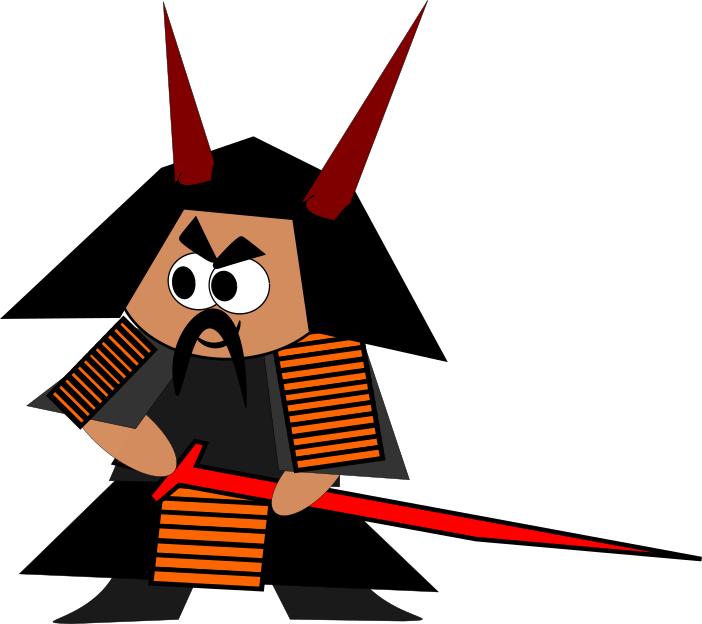
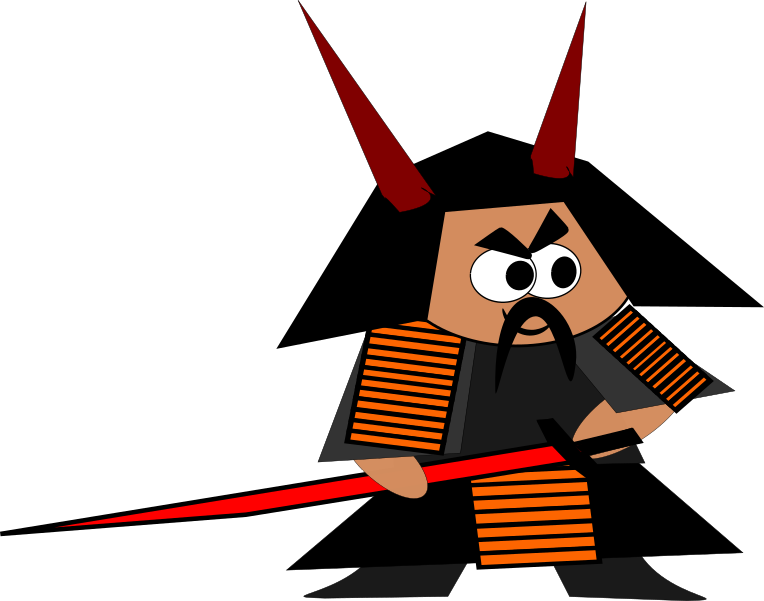
new levels with boss fights

diff --git a/planet_of_the_grizzlies/potg/world/potg_enemy.py b/planet_of_the_grizzlies/potg/world/potg_enemy.py
@@ -18,6 +18,17 @@ class Enemy(Entity):
                 if not self.killed():
                     self.activate_state(Entity.Punched, 12)
 
+    def update_target(self):
+        self.current_target = None
+        # check if any of the players is within range
+        for clientid, player in self.world.players.items():
+            dx = abs(player.logic_pos[0] - self.logic_pos[0])
+            dy = abs(player.logic_pos[1] - self.logic_pos[1])
+            if dx < self.range_x and dy < self.range_y:
+                self.current_target = player
+                break
+
+
     def entity_type(self):
         return "E"
 
@@ -50,8 +61,6 @@ class Soldier(Enemy):
         self.sprites[Entity.Idle] = [QPixmap("gfx/soldier_idle.png").scaled(self.size[0], self.size[1])]
         self.sprites[Entity.Walking] = [QPixmap("gfx/soldier_step1.png").scaled(self.size[0], self.size[1]),
                                         QPixmap("gfx/soldier_step2.png").scaled(self.size[0], self.size[1])]
-        self.sprites[Entity.Running] = [QPixmap("gfx/soldier_idle.png").scaled(self.size[0], self.size[1])]
-        self.sprites[Entity.Dodging] = [QPixmap("gfx/soldier_idle.png").scaled(self.size[0], self.size[1])]
         self.sprites[Entity.Jumping] = [QPixmap("gfx/soldier_idle.png").scaled(self.size[0], self.size[1])]
         # self.sprites[Entity.Punching] = [QPixmap("gfx/punch_player.png").scaled(self.size[0], self.size[1])]
         self.sprites[Entity.Punched] = [QPixmap("gfx/soldier_hit.png").scaled(self.size[0], self.size[1])]
@@ -82,15 +91,6 @@ class Soldier(Enemy):
 
         super().update()
 
-    def update_target(self):
-        self.current_target = None
-        # check if any of the players is within range
-        for clientid, player in self.world.players.items():
-            dx = abs(player.logic_pos[0] - self.logic_pos[0])
-            dy = abs(player.logic_pos[1] - self.logic_pos[1])
-            if dx < self.range_x and dy < self.range_y:
-                self.current_target = player
-                break
 
     def update_orientation(self):
         if self.current_target:
@@ -157,8 +157,6 @@ class Ninja(Enemy):
         self.sprites[Entity.Idle] = [QPixmap("gfx/ninja.png").scaled(self.size[0], self.size[1])]
         self.sprites[Entity.Walking] = [QPixmap("gfx/ninja_step.png").scaled(self.size[0], self.size[1]),
                                         QPixmap("gfx/ninja.png").scaled(self.size[0], self.size[1])]
-        self.sprites[Entity.Running] = [QPixmap("gfx/ninja.png").scaled(self.size[0], self.size[1])]
-        self.sprites[Entity.Dodging] = [QPixmap("gfx/ninja.png").scaled(self.size[0], self.size[1])]
         self.sprites[Entity.Jumping] = [QPixmap("gfx/ninja.png").scaled(self.size[0], self.size[1])]
         # self.sprites[Entity.Punching] = [QPixmap("gfx/punch_player.png").scaled(self.size[0], self.size[1])]
         self.sprites[Entity.Punched] = [QPixmap("gfx/ninja_hit.png").scaled(self.size[0], self.size[1])]
@@ -189,15 +187,6 @@ class Ninja(Enemy):
 
         super().update()
 
-    def update_target(self):
-        self.current_target = None
-        # check if any of the players is within range
-        for clientid, player in self.world.players.items():
-            dx = abs(player.logic_pos[0] - self.logic_pos[0])
-            dy = abs(player.logic_pos[1] - self.logic_pos[1])
-            if dx < self.range_x and dy < self.range_y:
-                self.current_target = player
-                break
 
     def update_orientation(self):
         if self.current_target:
@@ -237,59 +226,10 @@ class Ninja(Enemy):
         bullet.velocity = bullet_velocity
 
 
-
-class Bullet(Entity):
-
-    # two dimensional image but depth of 10
-    size = [50/2, 17/2, 10]
-    damage = 10
-    speed = 10
-    weight = .0
-
-    def __init__(self, id, pos, world):
-        super().__init__(id, pos, world, QPixmap("gfx/bullet.png").scaled(self.size[0], self.size[1]))
-        self.activate_state(Entity.Flying, 100)
-
-    # if collide with player, kill player
-    def collision(self, colliding_entity):
-        if colliding_entity.entity_type() == "P":
-            colliding_entity.hurt(self.damage)
-            self.activate_state(Entity.Dead)
-
-    def entity_type(self):
-        return "b"
-
-    def load_images(self):
-        self.sprites[Entity.Idle] = [QPixmap("gfx/bullet.png").scaled(self.size[0], self.size[1])]
-        self.sprites[Entity.Flying] = [QPixmap("gfx/bullet.png").scaled(self.size[0], self.size[1])]
-        self.sprites[Entity.Dead] = [QPixmap("gfx/bullet.png").scaled(self.size[0], self.size[1])]
-
-    def on_state_transition(self, old_state, new_state):
-        if new_state == Entity.Dead or (new_state == Entity.Idle and old_state == Bullet.Flying):
-            self.world.remove_entity(self)
-
-class Star(Bullet):
-
-    # two dimensional image but depth of 10
-    size = [70/2, 70/2, 10]
-    damage = 10
-    speed = 15
-    weight = .1
-
-    def entity_type(self):
-        return "s"
-
-    def load_images(self):
-        self.sprites[Entity.Idle] = [QPixmap("gfx/star.png").scaled(self.size[0], self.size[1])]
-        self.sprites[Entity.Flying] = [QPixmap("gfx/star.png").scaled(self.size[0], self.size[1]),
-                                        QPixmap("gfx/star1.png").scaled(self.size[0], self.size[1]),
-                                        QPixmap("gfx/star2.png").scaled(self.size[0], self.size[1])]
-        self.sprites[Entity.Dead] = [QPixmap("gfx/star.png").scaled(self.size[0], self.size[1])]
-
-
 class DrEvil(Enemy):
 
     size = [328/3, 375/3, 20]
+    Drinking = Entity.__HighestState__ + 3
 
     def __init__(self, id, pos, world):
         super().__init__(id, pos, world, "gfx/doc_idle.png")
@@ -300,35 +240,131 @@ class DrEvil(Enemy):
 
     def load_images(self):
         self.sprites[Entity.Idle] = [QPixmap("gfx/doc_idle.png").scaled(self.size[0], self.size[1])]
+        self.sprites[Entity.Using] = [QPixmap("gfx/doc_use.png").scaled(self.size[0], self.size[1])]
+        self.sprites[DrEvil.Drinking] = [QPixmap("gfx/doc_drink.png").scaled(self.size[0], self.size[1])]
+        self.sprites[Entity.Walking] = [QPixmap("gfx/doc_fly1.png").scaled(self.size[0], self.size[1]),
+                                        QPixmap("gfx/doc_fly2.png").scaled(self.size[0], self.size[1])]
+
+    def update(self):
+        if self.state == Entity.Idle:
+            self.update_target()
+            if self.current_target:
+                self.activate_state(Entity.Using, 70)
+        if self.state == Entity.Walking:
+            player = self.platform.entity_for_type("P")
+            if player:
+                vel = self.vector_to(player.logic_pos, self.speed)
+                self.velocity[0] = vel[0]
+                self.velocity[2] = vel[2]
+
+        super().update()
+
+    def on_state_transition(self, old_state, new_state):
+        if old_state == Entity.Using:
+            self.activate_state(DrEvil.Drinking, 70)
+        if old_state == DrEvil.Drinking:
+            self.activate_state(DrEvil.Walking)
+
 
 
 class Samurai(Enemy):
 
     size = [700/3, 700/3, 20]
+    speed = 0
+    direction = 0
+    health = 50
+    range_x = 500
+    range_y = 200
+    current_target = None
 
     def __init__(self, id, pos, world):
         super().__init__(id, pos, world, "gfx/samurai_idle.png")
         self.activate_state(Entity.Idle)
         self.logic_pos[2] += self.world.depth * .5
 
+    def update(self):
+        if self.state == Entity.Idle:
+            self.update_target()
+            if self.current_target:
+                self.activate_state(Entity.Using, 70)
+
+        super().update()
+
+    def update_orientation(self):
+        if self.current_target:
+            if (self.current_target.logic_pos[0] - self.logic_pos[0]) < 0:
+                self.orientation = -1
+            else:
+                self.orientation = 1
+        else:
+            super().update_orientation()
+
     def entity_type(self):
         return "x"
 
     def load_images(self):
         self.sprites[Entity.Idle] = [QPixmap("gfx/samurai_idle.png").scaled(self.size[0], self.size[1])]
+        self.sprites[Entity.Dead] = [QPixmap("gfx/samurai_dead.png").scaled(self.size[0], self.size[1])]
+        self.sprites[Entity.Using] = [QPixmap("gfx/samurai_hit.png").scaled(self.size[0], self.size[1])]
 
 
 class General(Enemy):
 
     size = [700/3, 700/3, 20]
+    Shouting = Entity.__HighestState__ + 4
+
+    speed = 0
+    direction = 0
+    health = 50
+    range_x = 300
+    range_y = 200
+    current_target = None
+
+    bullet_burst_count = 0
+    bullet_max_burst_count = 1
 
     def __init__(self, id, pos, world):
         super().__init__(id, pos, world, "gfx/general.png")
         self.activate_state(Entity.Idle)
         self.logic_pos[2] += self.world.depth * .5
 
+    def update(self):
+        if self.state == Entity.Idle:
+            self.update_target()
+            if self.current_target:
+                self.activate_state(General.Shouting, 70)
+
+        super().update()
+
+    def on_state_transition(self, old_state, new_state):
+        if old_state == General.Shouting and self.current_target:
+            self.fire()
+
+    def fire(self):
+        self.update_orientation()
+        nozzle_pos = [self.box.right(), (self.box.top() + self.box.bottom()) / 2,
+                      (self.box.back() + self.box.front()) / 2]
+        if self.orientation < 0:
+            nozzle_pos[0] = self.box.left()
+        bullet = self.world.add_entity("z", nozzle_pos)
+        bullet_velocity = bullet.vector_to(self.current_target.logic_pos, bullet.speed)
+
+        self.bullet_burst_count += 1
+        bullet.velocity = bullet_velocity
+
+    def update_orientation(self):
+        if self.current_target:
+            if (self.current_target.logic_pos[0] - self.logic_pos[0]) < 0:
+                self.orientation = -1
+            else:
+                self.orientation = 1
+        else:
+            super().update_orientation()
+
     def entity_type(self):
         return "y"
 
     def load_images(self):
         self.sprites[Entity.Idle] = [QPixmap("gfx/general.png").scaled(self.size[0], self.size[1])]
+        self.sprites[Entity.Dead] = [QPixmap("gfx/general_dead.png").scaled(self.size[0], self.size[1])]
+        self.sprites[General.Shouting] = [QPixmap("gfx/general_hit.png").scaled(self.size[0], self.size[1])]

diff --git a/planet_of_the_grizzlies/potg/world/potg_misc.py b/planet_of_the_grizzlies/potg/world/potg_misc.py
@@ -80,3 +80,70 @@ class Cage(Entity):
                 cage_platform.release_captives()
 
 
+
+class Bullet(Entity):
+
+    # two dimensional image but depth of 10
+    size = [50/2, 17/2, 10]
+    damage = 10
+    speed = 10
+    weight = .0
+
+    def __init__(self, id, pos, world):
+        super().__init__(id, pos, world, QPixmap("gfx/bullet.png").scaled(self.size[0], self.size[1]))
+        self.activate_state(Entity.Flying, 100)
+
+    # if collide with player, kill player
+    def collision(self, colliding_entity):
+        if colliding_entity.entity_type() == "P":
+            colliding_entity.hurt(self.damage)
+            self.activate_state(Entity.Dead)
+
+    def entity_type(self):
+        return "b"
+
+    def load_images(self):
+        self.sprites[Entity.Idle] = [QPixmap("gfx/bullet.png").scaled(self.size[0], self.size[1])]
+        self.sprites[Entity.Flying] = [QPixmap("gfx/bullet.png").scaled(self.size[0], self.size[1])]
+        self.sprites[Entity.Dead] = [QPixmap("gfx/bullet.png").scaled(self.size[0], self.size[1])]
+
+    def on_state_transition(self, old_state, new_state):
+        if new_state == Entity.Dead or (new_state == Entity.Idle and old_state == Bullet.Flying):
+            self.world.remove_entity(self)
+
+
+
+class Star(Bullet):
+
+    # two dimensional image but depth of 10
+    size = [70/2, 70/2, 10]
+    damage = 10
+    speed = 15
+    weight = .1
+
+    def entity_type(self):
+        return "s"
+
+    def load_images(self):
+        self.sprites[Entity.Idle] = [QPixmap("gfx/star.png").scaled(self.size[0], self.size[1])]
+        self.sprites[Entity.Flying] = [QPixmap("gfx/star.png").scaled(self.size[0], self.size[1]),
+                                        QPixmap("gfx/star1.png").scaled(self.size[0], self.size[1]),
+                                        QPixmap("gfx/star2.png").scaled(self.size[0], self.size[1])]
+        self.sprites[Entity.Dead] = [QPixmap("gfx/star.png").scaled(self.size[0], self.size[1])]
+
+
+class Shout(Bullet):
+
+    # two dimensional image but depth of 10
+    size = [250/2, 250/2, 10]
+    damage = 10
+    speed = 10
+    weight = .0
+
+    def entity_type(self):
+        return "z"
+
+    def load_images(self):
+        self.sprites[Entity.Idle] = [QPixmap("gfx/shout.png").scaled(self.size[0], self.size[1])]
+        self.sprites[Entity.Flying] = [QPixmap("gfx/shout.png").scaled(self.size[0], self.size[1])]
+        self.sprites[Entity.Dead] = [QPixmap("gfx/shout.png").scaled(self.size[0], self.size[1])]

diff --git a/planet_of_the_grizzlies/potg/world/potg_player.py b/planet_of_the_grizzlies/potg/world/potg_player.py
@@ -73,8 +73,6 @@ class Player(Entity):
             self.sprites[Entity.Idle] = [QPixmap("gfx/player_idle.png").scaled(self.size[0], self.size[1])]
             self.sprites[Entity.Walking] = [QPixmap("gfx/player_step1.png").scaled(self.size[0], self.size[1]), QPixmap("gfx/player_step2.png").scaled(self.size[0], self.size[1])]
             self.sprites[Entity.Running] = [QPixmap("gfx/player_idle.png").scaled(self.size[0], self.size[1])]
-            self.sprites[Entity.Dodging] = [QPixmap("gfx/player_idle.png").scaled(self.size[0], self.size[1])]
-            self.sprites[Entity.Jumping] = [QPixmap("gfx/player_jump.png").scaled(self.size[0], self.size[1])]
             self.sprites[Entity.Punching] = [QPixmap("gfx/player_punch.png").scaled(self.size[0], self.size[1])]
             #self.sprites[Entity.Punched] = [QPixmap("gfx/punch_enemy.png").scaled(self.size[0], self.size[1])]
             self.sprites[Entity.Kicking] = [QPixmap("gfx/player_kick.png").scaled(self.size[0], self.size[1])]
@@ -84,8 +82,6 @@ class Player(Entity):
             self.sprites[Entity.Idle] = [QPixmap("gfx/brodude_idle.png").scaled(self.size[0], self.size[1])]
             self.sprites[Entity.Walking] = [QPixmap("gfx/brodude_step1.png").scaled(self.size[0], self.size[1]),
                                             QPixmap("gfx/brodude_step2.png").scaled(self.size[0], self.size[1])]
-            self.sprites[Entity.Running] = [QPixmap("gfx/brodude_idle.png").scaled(self.size[0], self.size[1])]
-            self.sprites[Entity.Dodging] = [QPixmap("gfx/brodude_idle.png").scaled(self.size[0], self.size[1])]
             self.sprites[Entity.Jumping] = [QPixmap("gfx/brodude_jump.png").scaled(self.size[0], self.size[1])]
             self.sprites[Entity.Punching] = [QPixmap("gfx/brodude_attack1.png").scaled(self.size[0], self.size[1])]
             # self.sprites[Entity.Punched] = [QPixmap("gfx/punch_enemy.png").scaled(self.size[0], self.size[1])]

diff --git a/planet_of_the_grizzlies/potg/potg.py b/planet_of_the_grizzlies/potg/potg.py
@@ -154,8 +154,8 @@ class PlanetOfTheGrizzlies(QWidget):
     def onCreateServer(self):
         self.server = LocalServer()
         self.client.attach_to_server(self.server)
-        self.server.request_level("grizzlycity")
-        #self.server.request_level("ninja_level")
+        #self.server.request_level("grizzlycity")
+        self.server.request_level("ninja_level")
         #self.server.request_level("drevil")
         self.server.request_new_player(self.client.id)
 

diff --git a/planet_of_the_grizzlies/potg/world/potg_world.py b/planet_of_the_grizzlies/potg/world/potg_world.py
@@ -295,6 +295,8 @@ class World(QGraphicsScene):
             self.entities[ent_id] = Bullet(ent_id, ent_position[0:], self)
         elif ent_type == "s":
             self.entities[ent_id] = Star(ent_id, ent_position[0:], self)
+        elif ent_type == "z":
+            self.entities[ent_id] = Shout(ent_id, ent_position[0:], self)
         elif ent_type == "D":
             self.entities[ent_id] = DrEvil(ent_id, ent_position[0:], self)
         elif ent_type == "x":

diff --git a/planet_of_the_grizzlies/potg/world/potg_entity.py b/planet_of_the_grizzlies/potg/world/potg_entity.py
@@ -37,7 +37,7 @@ class Entity(QGraphicsPixmapItem, SceneObject):
     Idle = 0
     Walking = 1
     Flying = 1
-    Running = 2
+    Using = 2
     Dodging = 3
     Jumping = 4
     Punching = 5
